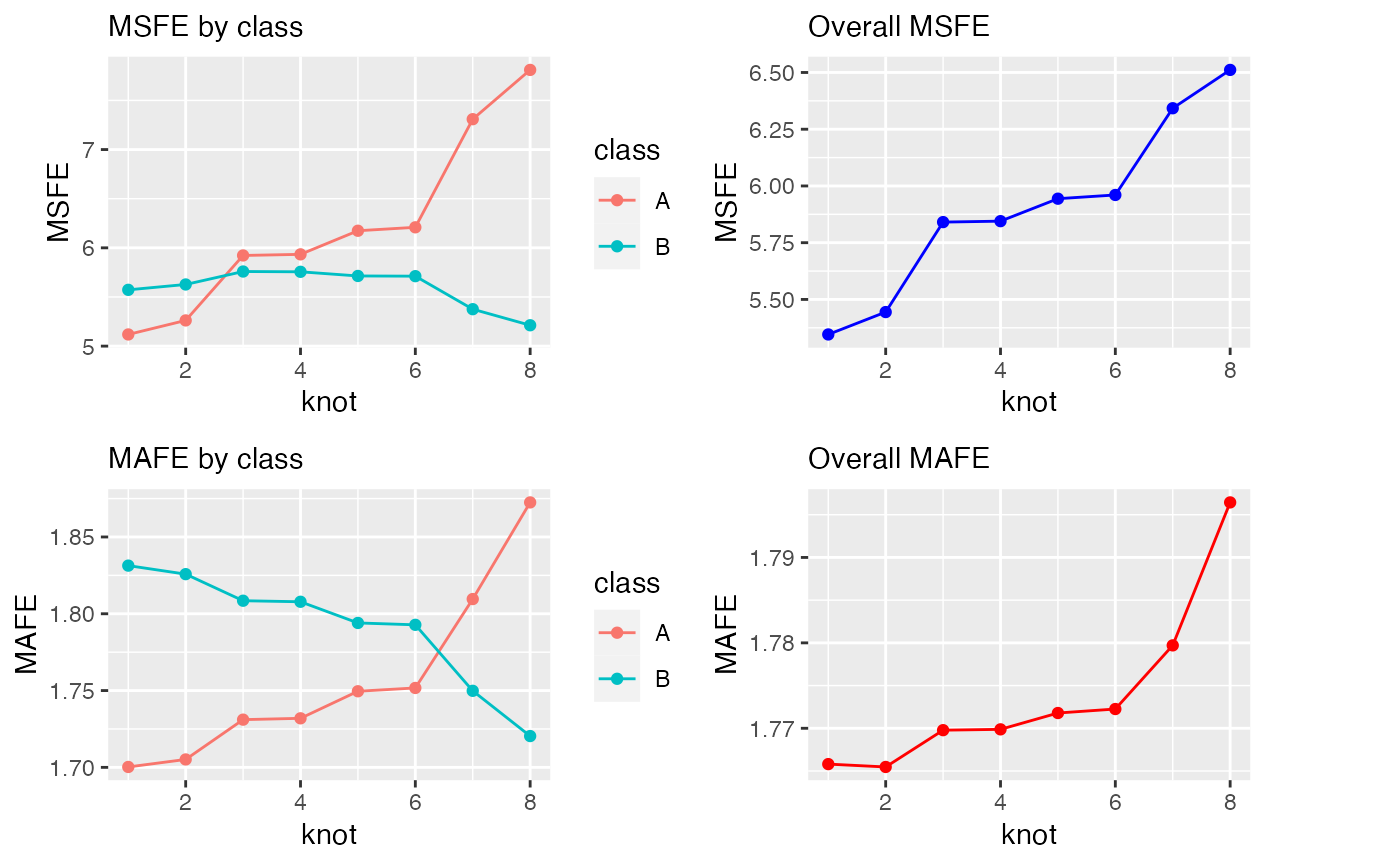
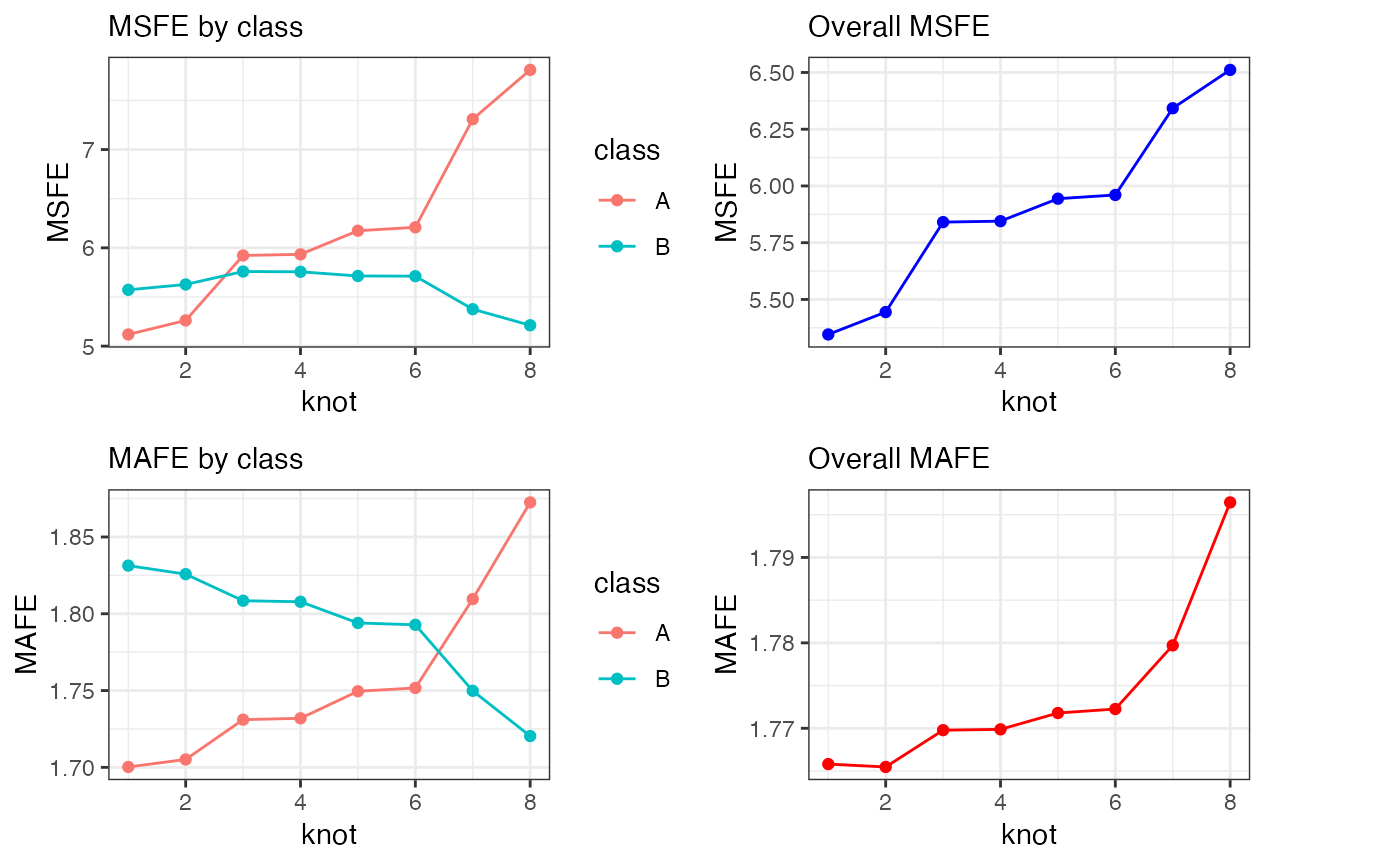
theme_bw

Changed region(s): [[0.5836, 0.874, 0.8907, 0.9052], [0.0921, 0.874, 0.3993, 0.9052], [0.3686, 0.0624, 0.3993, 0.0936]]

diff --git a/docs/articles/examples.html b/docs/articles/examples.html
@@ -140,26 +140,30 @@ and separate solutions - both classes had the same slope coefficients
   <span class="fu">ggplot2</span><span class="fu">::</span><span class="fu"><a href="https://ggplot2.tidyverse.org/reference/ggplot.html" class="external-link">ggplot</a></span><span class="op">(</span><span class="fu">ggplot2</span><span class="fu">::</span><span class="fu"><a href="https://ggplot2.tidyverse.org/reference/aes.html" class="external-link">aes</a></span><span class="op">(</span>x <span class="op">=</span> <span class="va">knot</span>, colour <span class="op">=</span> <span class="va">class</span><span class="op">)</span><span class="op">)</span> <span class="op">+</span>
   <span class="fu">ggplot2</span><span class="fu">::</span><span class="fu"><a href="https://ggplot2.tidyverse.org/reference/geom_point.html" class="external-link">geom_point</a></span><span class="op">(</span><span class="fu">ggplot2</span><span class="fu">::</span><span class="fu"><a href="https://ggplot2.tidyverse.org/reference/aes.html" class="external-link">aes</a></span><span class="op">(</span>y <span class="op">=</span> <span class="va">MSFE</span><span class="op">)</span><span class="op">)</span> <span class="op">+</span>
   <span class="fu">ggplot2</span><span class="fu">::</span><span class="fu"><a href="https://ggplot2.tidyverse.org/reference/geom_path.html" class="external-link">geom_line</a></span><span class="op">(</span><span class="fu">ggplot2</span><span class="fu">::</span><span class="fu"><a href="https://ggplot2.tidyverse.org/reference/aes.html" class="external-link">aes</a></span><span class="op">(</span>y <span class="op">=</span> <span class="va">MSFE</span><span class="op">)</span><span class="op">)</span> <span class="op">+</span> 
-  <span class="fu"><a href="https://ggplot2.tidyverse.org/reference/labs.html" class="external-link">labs</a></span><span class="op">(</span>subtitle <span class="op">=</span> <span class="st">"MSFE by class"</span><span class="op">)</span>
+  <span class="fu"><a href="https://ggplot2.tidyverse.org/reference/labs.html" class="external-link">labs</a></span><span class="op">(</span>subtitle <span class="op">=</span> <span class="st">"MSFE by class"</span><span class="op">)</span> <span class="op">+</span> 
+  <span class="fu"><a href="https://ggplot2.tidyverse.org/reference/ggtheme.html" class="external-link">theme_bw</a></span><span class="op">(</span><span class="op">)</span>
 
 <span class="va">p2</span> <span class="op">=</span> <span class="va">cv1</span><span class="op">$</span><span class="va">class_knot_summary</span> <span class="op"><a href="../reference/pipe.html">%&gt;%</a></span>
   <span class="fu">ggplot2</span><span class="fu">::</span><span class="fu"><a href="https://ggplot2.tidyverse.org/reference/ggplot.html" class="external-link">ggplot</a></span><span class="op">(</span><span class="fu">ggplot2</span><span class="fu">::</span><span class="fu"><a href="https://ggplot2.tidyverse.org/reference/aes.html" class="external-link">aes</a></span><span class="op">(</span>x <span class="op">=</span> <span class="va">knot</span>, colour <span class="op">=</span> <span class="va">class</span><span class="op">)</span><span class="op">)</span> <span class="op">+</span>
   <span class="fu">ggplot2</span><span class="fu">::</span><span class="fu"><a href="https://ggplot2.tidyverse.org/reference/geom_point.html" class="external-link">geom_point</a></span><span class="op">(</span><span class="fu">ggplot2</span><span class="fu">::</span><span class="fu"><a href="https://ggplot2.tidyverse.org/reference/aes.html" class="external-link">aes</a></span><span class="op">(</span>y <span class="op">=</span> <span class="va">MAFE</span><span class="op">)</span><span class="op">)</span> <span class="op">+</span>
   <span class="fu">ggplot2</span><span class="fu">::</span><span class="fu"><a href="https://ggplot2.tidyverse.org/reference/geom_path.html" class="external-link">geom_line</a></span><span class="op">(</span><span class="fu">ggplot2</span><span class="fu">::</span><span class="fu"><a href="https://ggplot2.tidyverse.org/reference/aes.html" class="external-link">aes</a></span><span class="op">(</span>y <span class="op">=</span> <span class="va">MAFE</span><span class="op">)</span><span class="op">)</span> <span class="op">+</span> 
-  <span class="fu"><a href="https://ggplot2.tidyverse.org/reference/labs.html" class="external-link">labs</a></span><span class="op">(</span>subtitle <span class="op">=</span> <span class="st">"MAFE by class"</span><span class="op">)</span>
+  <span class="fu"><a href="https://ggplot2.tidyverse.org/reference/labs.html" class="external-link">labs</a></span><span class="op">(</span>subtitle <span class="op">=</span> <span class="st">"MAFE by class"</span><span class="op">)</span><span class="op">+</span> 
+  <span class="fu"><a href="https://ggplot2.tidyverse.org/reference/ggtheme.html" class="external-link">theme_bw</a></span><span class="op">(</span><span class="op">)</span>
 
 <span class="va">p3</span> <span class="op">=</span> <span class="va">cv1</span><span class="op">$</span><span class="va">knot_summary</span> <span class="op"><a href="../reference/pipe.html">%&gt;%</a></span>
   <span class="fu">ggplot2</span><span class="fu">::</span><span class="fu"><a href="https://ggplot2.tidyverse.org/reference/ggplot.html" class="external-link">ggplot</a></span><span class="op">(</span><span class="fu">ggplot2</span><span class="fu">::</span><span class="fu"><a href="https://ggplot2.tidyverse.org/reference/aes.html" class="external-link">aes</a></span><span class="op">(</span>x <span class="op">=</span> <span class="va">knot</span>, group <span class="op">=</span> <span class="st">""</span><span class="op">)</span><span class="op">)</span> <span class="op">+</span>
   <span class="fu">ggplot2</span><span class="fu">::</span><span class="fu"><a href="https://ggplot2.tidyverse.org/reference/geom_point.html" class="external-link">geom_point</a></span><span class="op">(</span><span class="fu">ggplot2</span><span class="fu">::</span><span class="fu"><a href="https://ggplot2.tidyverse.org/reference/aes.html" class="external-link">aes</a></span><span class="op">(</span>y <span class="op">=</span> <span class="va">MSFE</span><span class="op">)</span>, colour <span class="op">=</span> <span class="st">"blue"</span><span class="op">)</span> <span class="op">+</span>
   <span class="fu">ggplot2</span><span class="fu">::</span><span class="fu"><a href="https://ggplot2.tidyverse.org/reference/geom_path.html" class="external-link">geom_line</a></span><span class="op">(</span><span class="fu">ggplot2</span><span class="fu">::</span><span class="fu"><a href="https://ggplot2.tidyverse.org/reference/aes.html" class="external-link">aes</a></span><span class="op">(</span>y <span class="op">=</span> <span class="va">MSFE</span><span class="op">)</span>, colour <span class="op">=</span> <span class="st">"blue"</span><span class="op">)</span> <span class="op">+</span> 
-  <span class="fu"><a href="https://ggplot2.tidyverse.org/reference/labs.html" class="external-link">labs</a></span><span class="op">(</span>subtitle <span class="op">=</span> <span class="st">"Overall MSFE"</span><span class="op">)</span>
+  <span class="fu"><a href="https://ggplot2.tidyverse.org/reference/labs.html" class="external-link">labs</a></span><span class="op">(</span>subtitle <span class="op">=</span> <span class="st">"Overall MSFE"</span><span class="op">)</span><span class="op">+</span> 
+  <span class="fu"><a href="https://ggplot2.tidyverse.org/reference/ggtheme.html" class="external-link">theme_bw</a></span><span class="op">(</span><span class="op">)</span>
 
 
 <span class="va">p4</span> <span class="op">=</span> <span class="va">cv1</span><span class="op">$</span><span class="va">knot_summary</span> <span class="op"><a href="../reference/pipe.html">%&gt;%</a></span>
   <span class="fu">ggplot2</span><span class="fu">::</span><span class="fu"><a href="https://ggplot2.tidyverse.org/reference/ggplot.html" class="external-link">ggplot</a></span><span class="op">(</span><span class="fu">ggplot2</span><span class="fu">::</span><span class="fu"><a href="https://ggplot2.tidyverse.org/reference/aes.html" class="external-link">aes</a></span><span class="op">(</span>x <span class="op">=</span> <span class="va">knot</span>, group <span class="op">=</span> <span class="st">""</span><span class="op">)</span><span class="op">)</span> <span class="op">+</span>
   <span class="fu">ggplot2</span><span class="fu">::</span><span class="fu"><a href="https://ggplot2.tidyverse.org/reference/geom_point.html" class="external-link">geom_point</a></span><span class="op">(</span><span class="fu">ggplot2</span><span class="fu">::</span><span class="fu"><a href="https://ggplot2.tidyverse.org/reference/aes.html" class="external-link">aes</a></span><span class="op">(</span>y <span class="op">=</span> <span class="va">MAFE</span><span class="op">)</span>, colour <span class="op">=</span> <span class="st">"red"</span><span class="op">)</span> <span class="op">+</span>
   <span class="fu">ggplot2</span><span class="fu">::</span><span class="fu"><a href="https://ggplot2.tidyverse.org/reference/geom_path.html" class="external-link">geom_line</a></span><span class="op">(</span><span class="fu">ggplot2</span><span class="fu">::</span><span class="fu"><a href="https://ggplot2.tidyverse.org/reference/aes.html" class="external-link">aes</a></span><span class="op">(</span>y <span class="op">=</span> <span class="va">MAFE</span><span class="op">)</span>, colour <span class="op">=</span> <span class="st">"red"</span><span class="op">)</span> <span class="op">+</span> 
-  <span class="fu"><a href="https://ggplot2.tidyverse.org/reference/labs.html" class="external-link">labs</a></span><span class="op">(</span>subtitle <span class="op">=</span> <span class="st">"Overall MAFE"</span><span class="op">)</span>
+  <span class="fu"><a href="https://ggplot2.tidyverse.org/reference/labs.html" class="external-link">labs</a></span><span class="op">(</span>subtitle <span class="op">=</span> <span class="st">"Overall MAFE"</span><span class="op">)</span><span class="op">+</span> 
+  <span class="fu"><a href="https://ggplot2.tidyverse.org/reference/ggtheme.html" class="external-link">theme_bw</a></span><span class="op">(</span><span class="op">)</span>
 
 <span class="fu">cowplot</span><span class="fu">::</span><span class="fu"><a href="https://wilkelab.org/cowplot/reference/plot_grid.html" class="external-link">plot_grid</a></span><span class="op">(</span><span class="va">p1</span>, <span class="va">p3</span>, <span class="va">p2</span>, <span class="va">p4</span>, align <span class="op">=</span> <span class="st">"hv"</span>, axis <span class="op">=</span> <span class="st">"tblr"</span><span class="op">)</span></code></pre></div>
 <p><img src="examples_files/figure-html/unnamed-chunk-7-1.png" width="700"></p>
